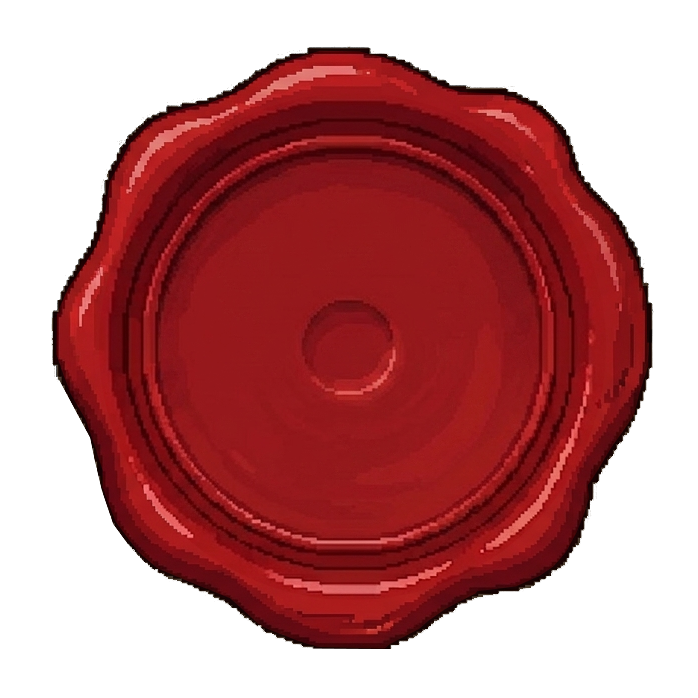
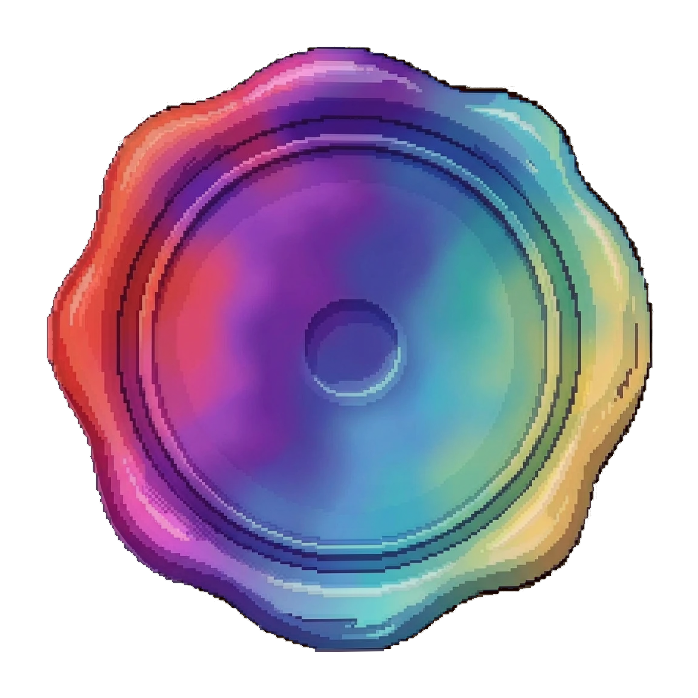
India seals + black seal text; forecast origin reduced to ~6km west

diff --git a/frontend/src/pages/CrowTrackerPage.jsx b/frontend/src/pages/CrowTrackerPage.jsx
@@ -440,7 +440,7 @@ export default function CrowTrackerPage() {
           }}
         >
           <img
-            src={`/scrolls/${stamped ? 'seal_stamped' : 'seal_unstamped'}.png`}
+            src={`/scrolls/${stamped ? 'seal_stamped_india' : 'seal_unstamped_india'}.png`}
             alt="" draggable={false}
             style={{
               width: '100%', height: '100%', objectFit: 'contain', display: 'block',
@@ -451,8 +451,8 @@ export default function CrowTrackerPage() {
           <span style={{
             position: 'absolute', inset: 0, display: 'flex', flexDirection: 'column',
             alignItems: 'center', justifyContent: 'center', lineHeight: 1.02, pointerEvents: 'none',
-            fontFamily: 'AnandaNamaste', color: '#fff', fontSize: 15, letterSpacing: '0.02em',
-            textShadow: '0 1px 3px rgba(60,15,5,0.7)',
+            fontFamily: 'AnandaNamaste', color: '#000', fontSize: 15, letterSpacing: '0.02em',
+            textShadow: '0 1px 2px rgba(255,255,255,0.4)',
             transform: stamped ? 'scale(0.94)' : 'none', transition: 'transform 0.12s ease-out',
           }}>
             <span>Pen</span>

diff --git a/frontend/src/components/scrolls/ScrollsListModal.jsx b/frontend/src/components/scrolls/ScrollsListModal.jsx
@@ -92,7 +92,7 @@ export default function ScrollsListModal({ scrolls = [], settings = {}, onRead, 
                       : <span className="h-14 w-14 rounded-full shadow" style={{ background: 'radial-gradient(circle at 35% 30%, #b3402f, #7c1d12)' }} />}
                     <span
                       className="pointer-events-none absolute inset-0 flex items-center justify-center text-[11px] font-bold tracking-wide"
-                      style={{ color: '#ffffff', textShadow: '0 1px 3px rgba(60,15,5,0.7)', fontFamily: font }}
+                      style={{ color: '#000000', textShadow: '0 1px 2px rgba(255,255,255,0.4)', fontFamily: font }}
                     >
                       Open
                     </span>

diff --git a/backend/src/modules/scrolls/scrolls.repo.js b/backend/src/modules/scrolls/scrolls.repo.js
@@ -494,8 +494,8 @@ export async function reissueStaleCrowActivities() {
 // makes a short, real local journey in over the land (streets reverse-geocoded
 // along the way) wherever the forecast is for. Offsets are converted from km to
 // degrees — latitude is ~constant; longitude shrinks by cos(latitude).
-const FORECAST_ORIGIN_NORTH_KM = 4;   // a touch north…
-const FORECAST_ORIGIN_WEST_KM = 12;   // …and well to the west of the centre
+const FORECAST_ORIGIN_NORTH_KM = 2;   // a touch north…
+const FORECAST_ORIGIN_WEST_KM = 6;    // …and to the west of the centre (~6 km out)
 const KM_PER_DEG_LAT = 110.574;
 const FORECAST_FROM_LABEL = 'the Three-Eyed Crow';
 

diff --git a/frontend/src/components/scrolls/ScrollReader.jsx b/frontend/src/components/scrolls/ScrollReader.jsx
@@ -93,7 +93,7 @@ export default function ScrollReader({ scroll, settings = {}, onClose }) {
             : <span className="h-[76px] w-[76px] rounded-full shadow-lg" style={{ background: 'radial-gradient(circle at 35% 30%, #b3402f, #7c1d12)' }} />}
           <span
             className="pointer-events-none absolute inset-0 flex items-center justify-center text-sm font-bold tracking-[0.04em]"
-            style={{ color: '#ffffff', textShadow: '0 1px 3px rgba(60,15,5,0.7)', fontFamily: font }}
+            style={{ color: '#000000', textShadow: '0 1px 2px rgba(255,255,255,0.4)', fontFamily: font }}
           >
             Close
           </span>

diff --git a/frontend/src/components/scrolls/ScrollComposeModal.jsx b/frontend/src/components/scrolls/ScrollComposeModal.jsx
@@ -356,7 +356,7 @@ export default function ScrollComposeModal({ settings = {}, testMode = false, on
               })()}
               <span
                 className="pointer-events-none absolute inset-0 flex items-center justify-center text-base font-bold tracking-[0.06em]"
-                style={{ color: '#ffffff', textShadow: '0 1px 3px rgba(60,15,5,0.7)', fontFamily: font }}
+                style={{ color: '#000000', textShadow: '0 1px 2px rgba(255,255,255,0.4)', fontFamily: font }}
               >
                 {sending ? '···' : 'Seal'}
               </span>
